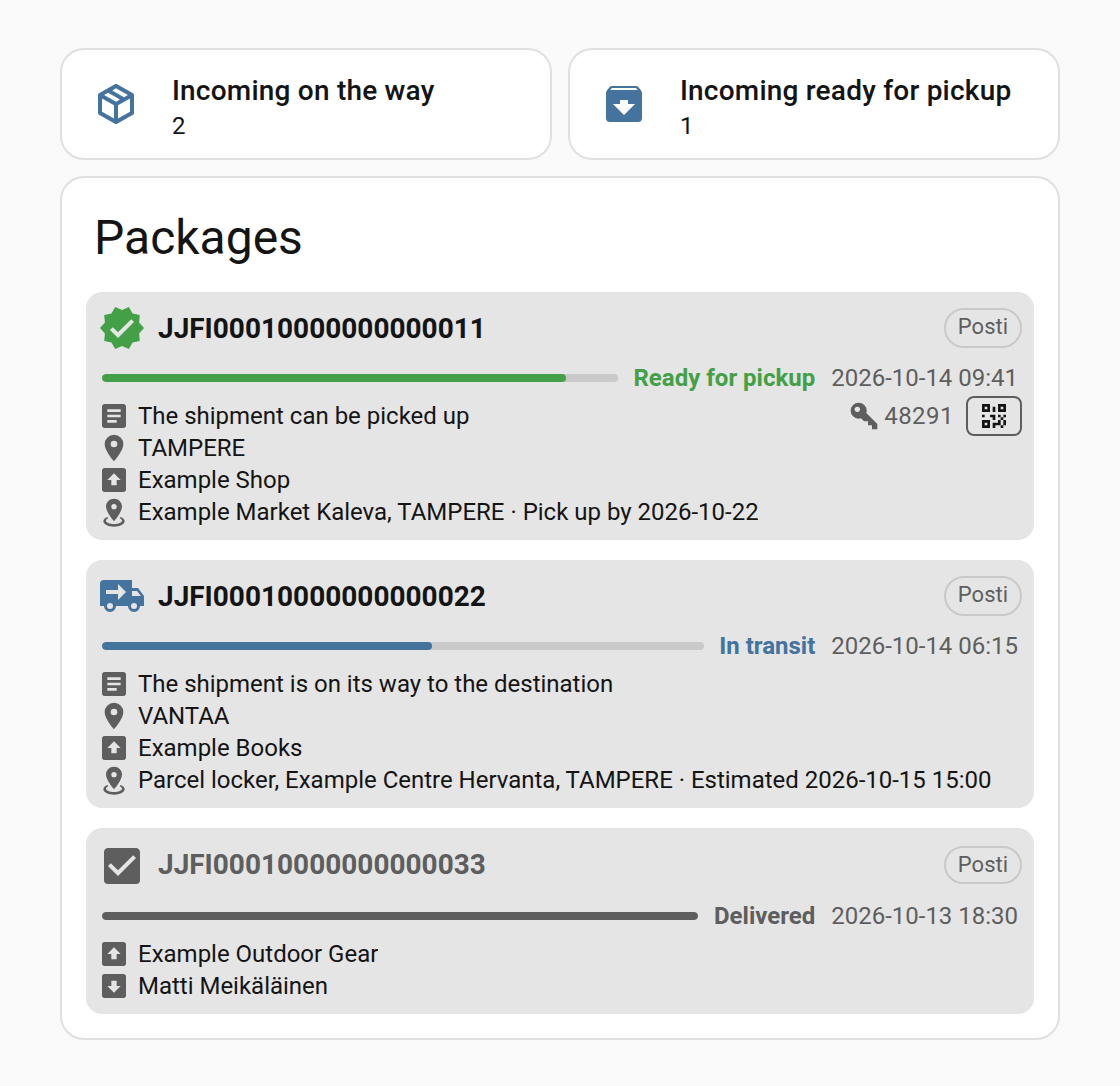
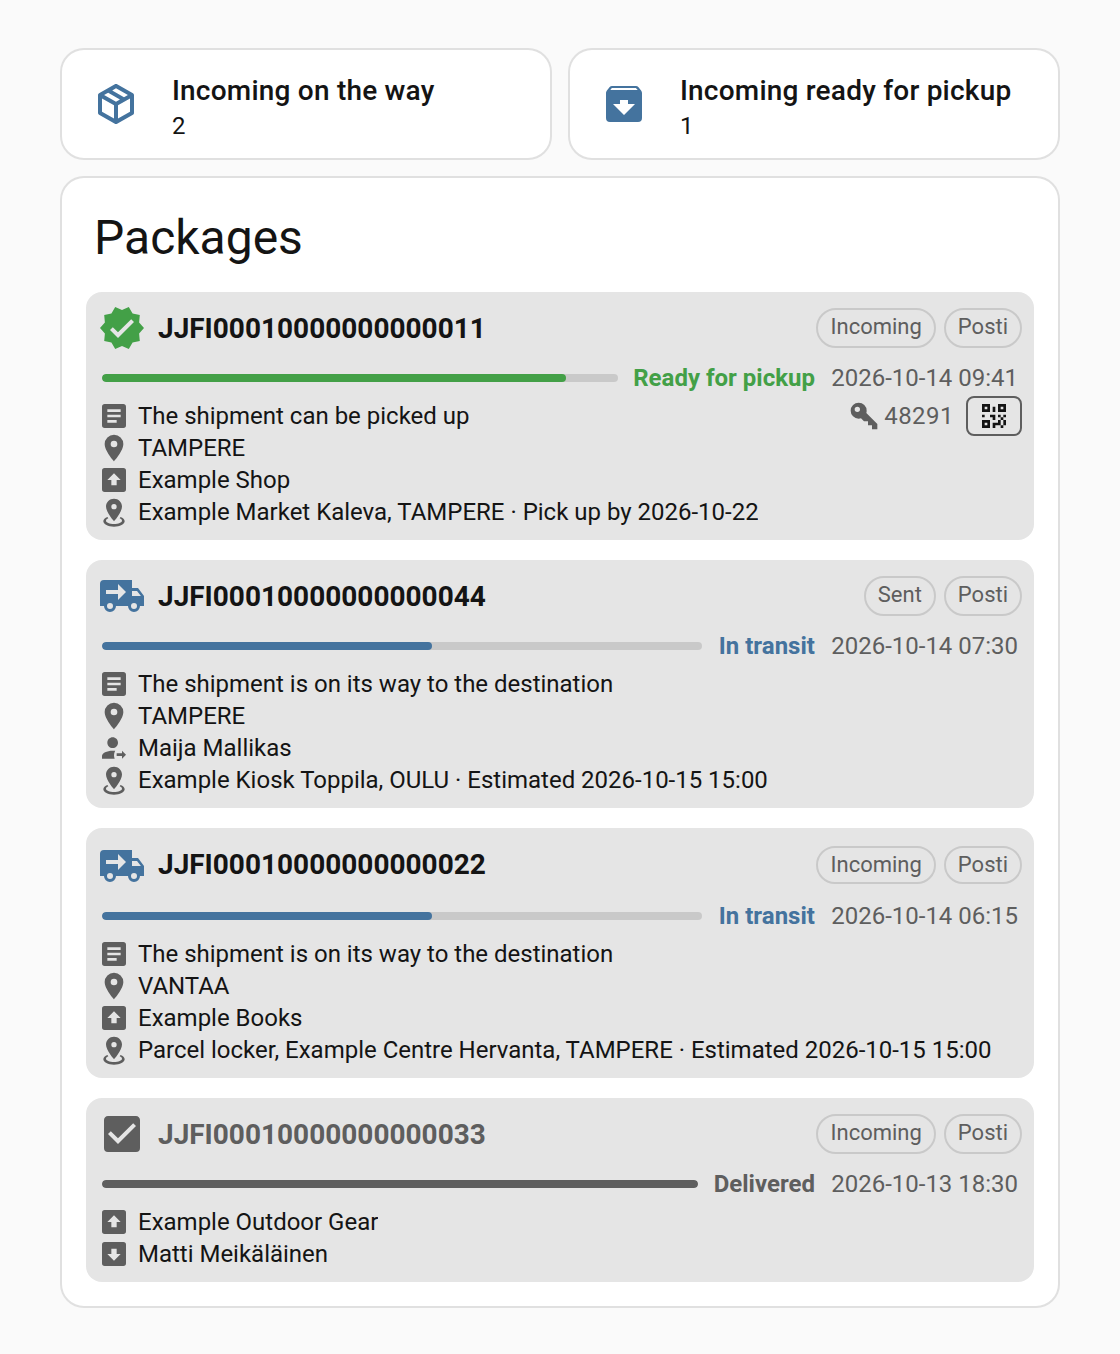
Describe sent packages in the README and show one in its screenshot
What is it? says the integration lists sent packages too and tells them apart, and counts them with four sensors.
The dashboard screenshot has a sent package, and the card marks each package incoming or sent.

Changed region(s): [[0.0625, 0.0304, 0.9375, 0.9724], [0.5312, 0.0304, 0.9062, 0.1215], [0.0625, 0.0608, 0.125, 0.1215]]

diff --git a/README.md b/README.md
@@ -4,18 +4,18 @@ Home Assistant integration that follows the packages of an OmaPosti account.
 
 [![GitHub Release][releases-shield]][releases] [![GitHub Release Date][release-date-shield]][releases] [![HACS][hacs-shield]][hacs] [![License][license-shield]](LICENSE)
 
-<img src="https://raw.githubusercontent.com/jesmak/posti_tracking/main/docs/images/dashboard-light.png#gh-light-mode-only" width="560" alt="A dashboard with the counts of packages on the way and ready for pickup, and package-tracker-card listing a package ready for pickup with its code and QR code button, one on its way and one delivered">
-<img src="https://raw.githubusercontent.com/jesmak/posti_tracking/main/docs/images/dashboard-dark.png#gh-dark-mode-only" width="560" alt="A dashboard with the counts of packages on the way and ready for pickup, and package-tracker-card listing a package ready for pickup with its code and QR code button, one on its way and one delivered">
+<img src="https://raw.githubusercontent.com/jesmak/posti_tracking/main/docs/images/dashboard-light.png#gh-light-mode-only" width="560" alt="A dashboard with the counts of incoming packages on the way and ready for pickup, and package-tracker-card listing a package ready for pickup with its code and QR code button, one sent to someone else, one on its way and one delivered, each marked incoming or sent">
+<img src="https://raw.githubusercontent.com/jesmak/posti_tracking/main/docs/images/dashboard-dark.png#gh-dark-mode-only" width="560" alt="A dashboard with the counts of incoming packages on the way and ready for pickup, and package-tracker-card listing a package ready for pickup with its code and QR code button, one sent to someone else, one on its way and one delivered, each marked incoming or sent">
 
 ## What is it?
 
 A custom component that lists the coming and recently delivered packages of an [OmaPosti](https://oma.posti.fi/)
-account. There's no need to add packages by hand. The list comes from the packages in your account, and it's updated
-every 10 minutes.
+account, and those sent from it, telling the two apart. There's no need to add packages by hand. The list comes from the
+packages in your account, and it's updated every 10 minutes.
 
 The sensor lists the packages in the format [package-tracker-card](https://github.com/jesmak/package-tracker-card)
 reads, so the card can show them together with packages from other tracking integrations. Four more sensors count the
-packages, and an event entity fires when one of them moves along.
+packages coming to you and those you have sent, and an event entity fires when one of them moves along.
 
 This is an unofficial integration. See [Data](#data) for what that means.
 
